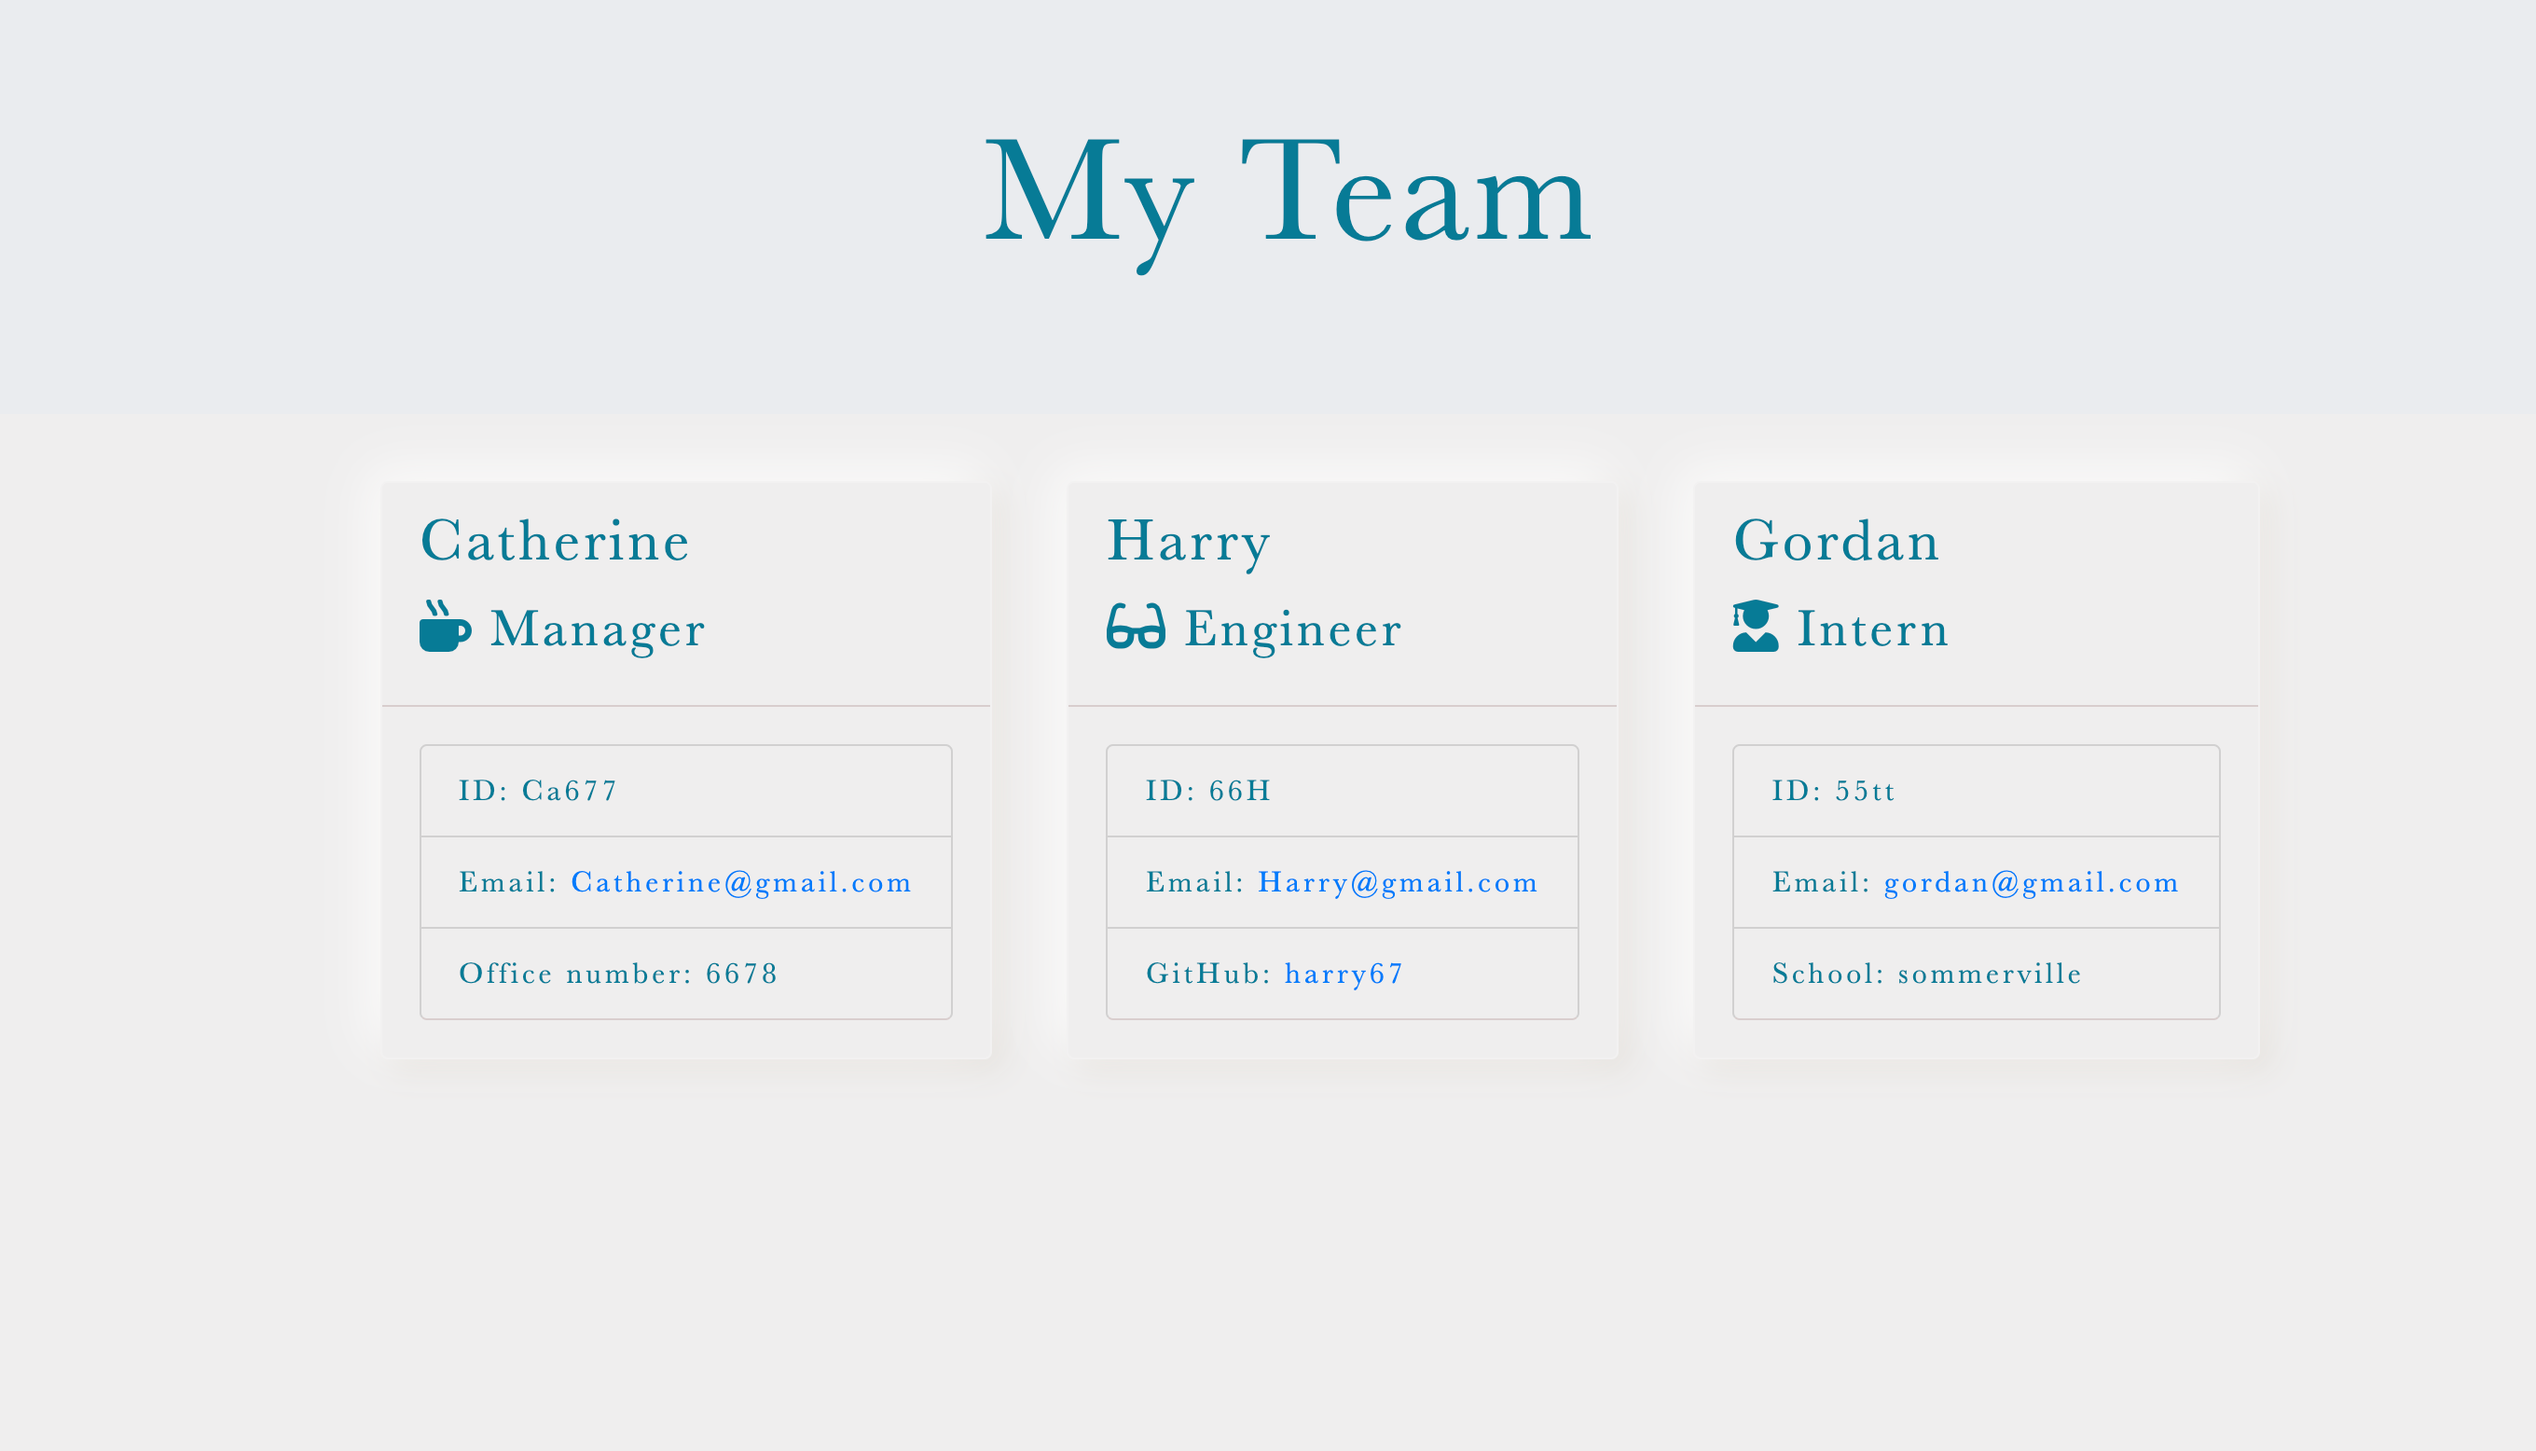
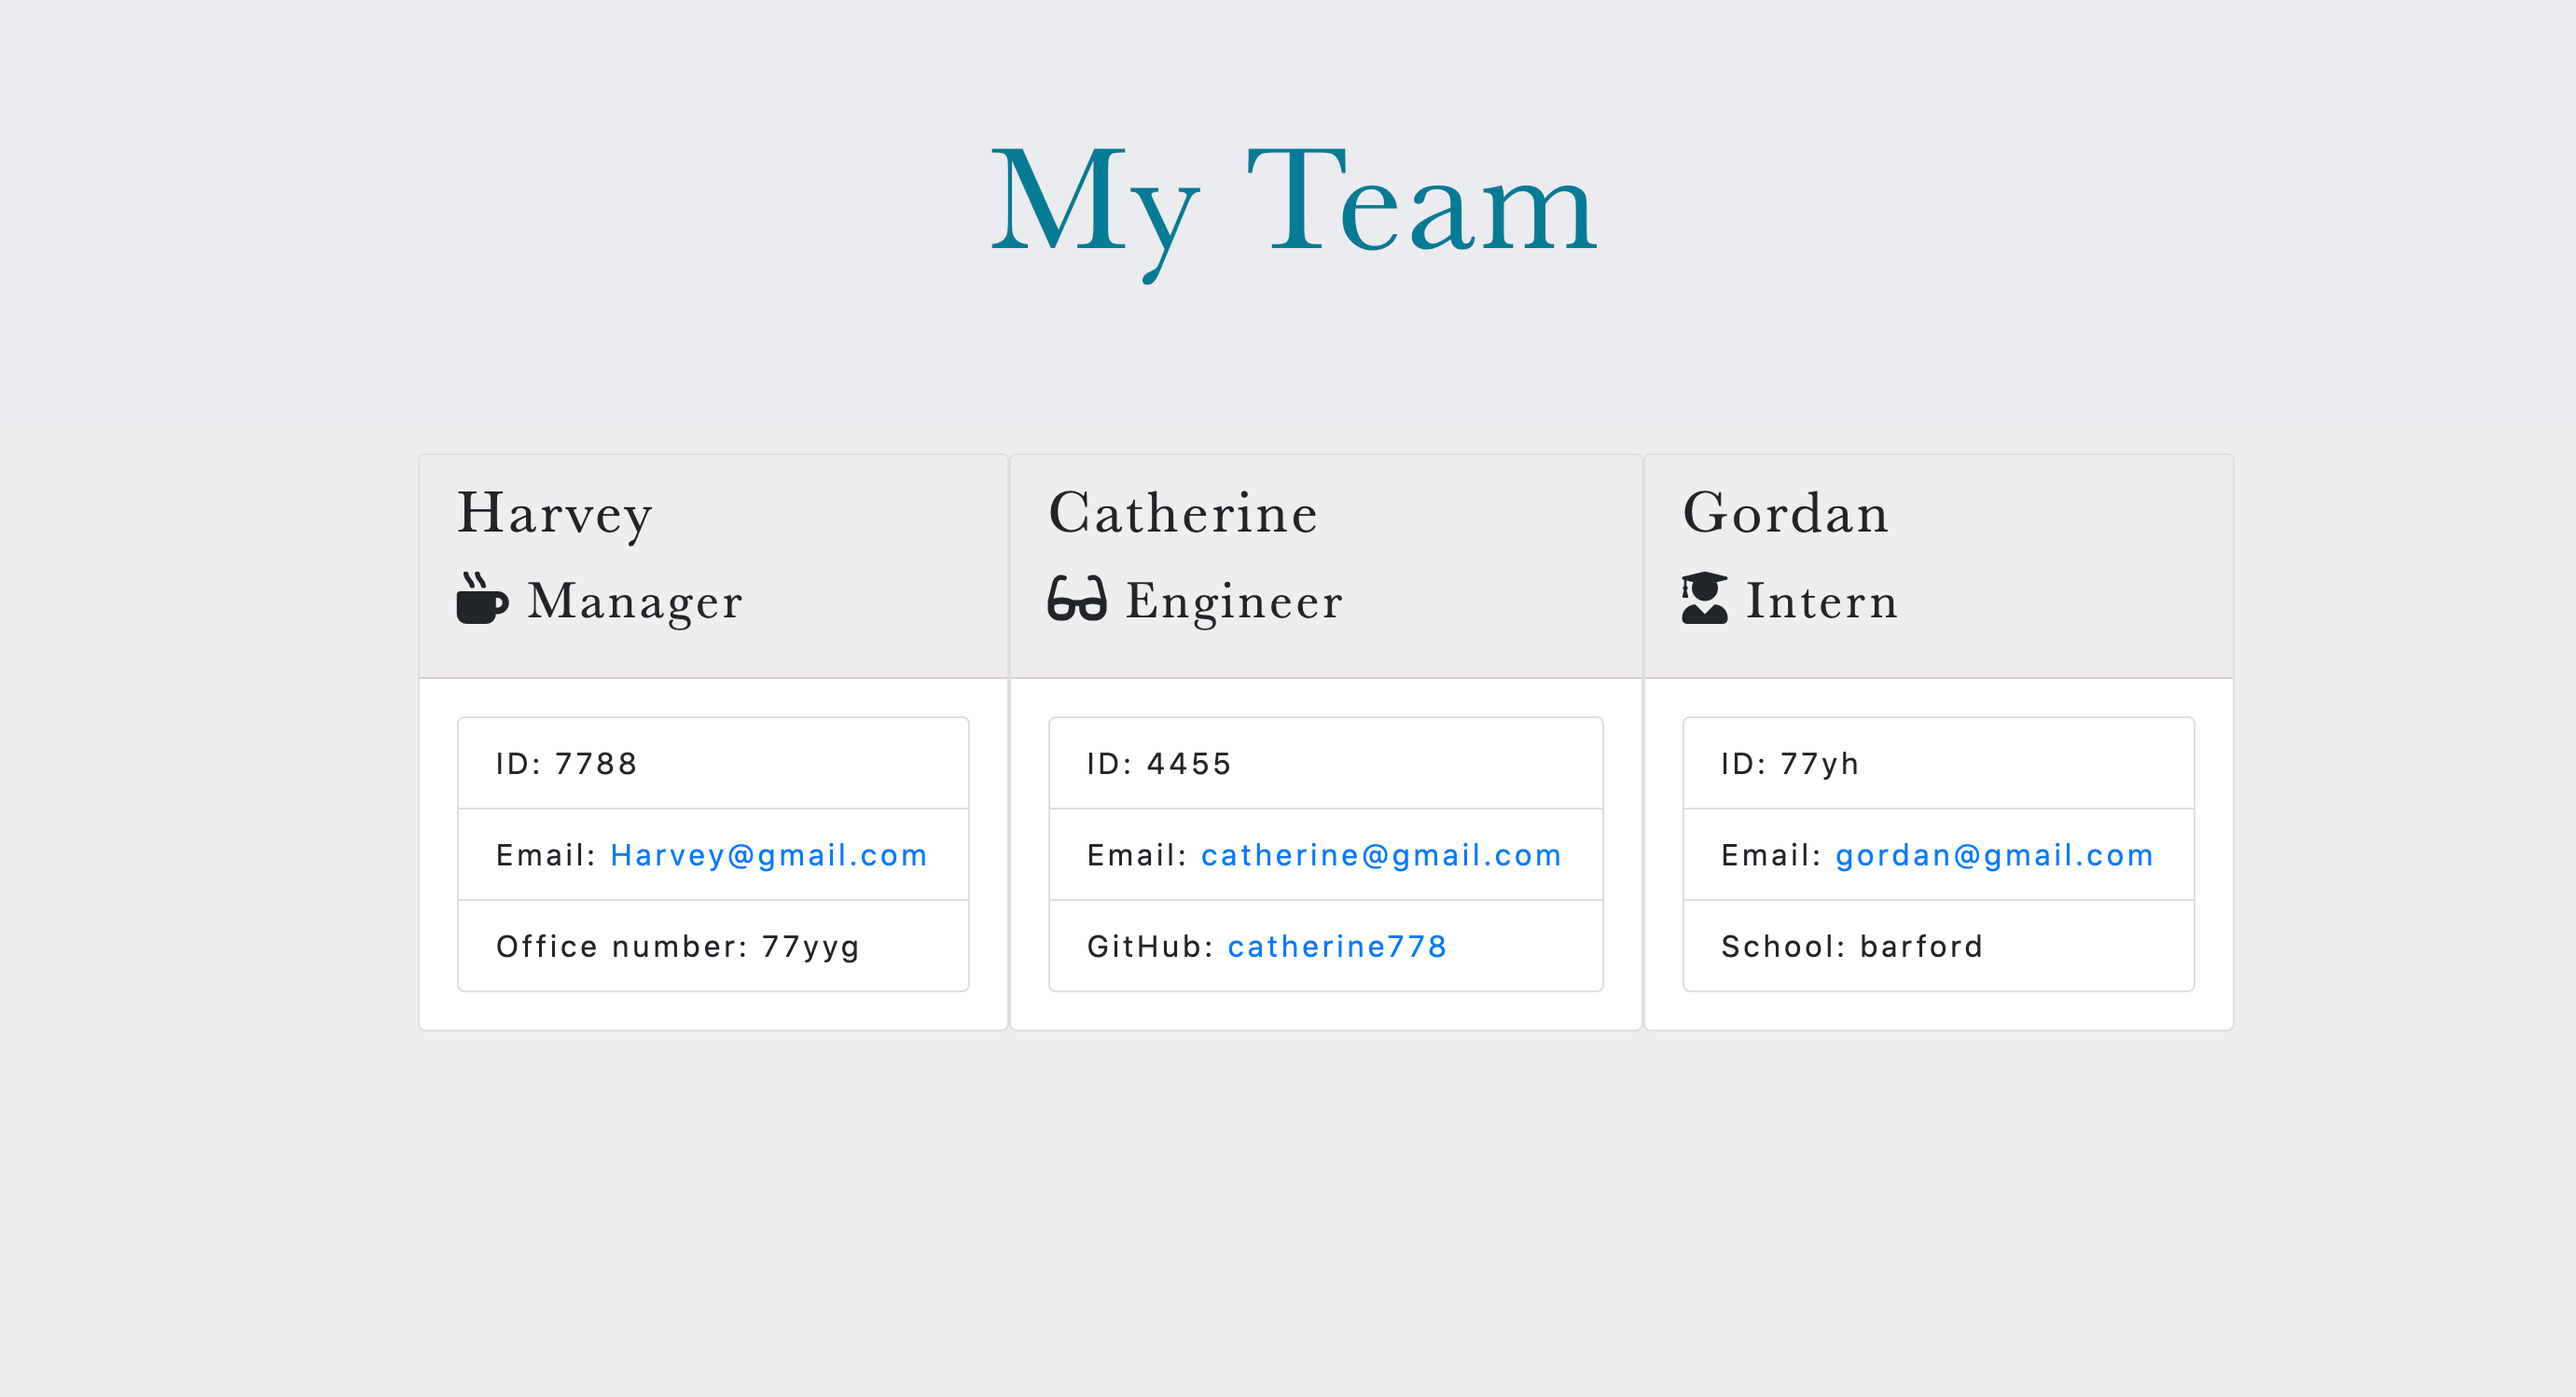
updated readme

diff --git a/output/team.html b/output/team.html
@@ -40,27 +40,14 @@
     padding: 7%;
     background-color: rgb(25, 155, 206);
     color: #EFEEEE;
-    box-shadow: -6px -6px 26px 0 rgba(255, 255, 255, 0.83),6px 6px 16px 0 rgba(217, 210, 200, 0.51);
-    border: 1px solid rgba(255, 255, 255, 0.20);
     margin-bottom: 30px;
     clip-path: polygon(50% 0%, 100% 0, 100% 75%, 50% 100%, 0% 75%, 0 0);
-  
-  }
-  
-  .card{
-    margin-top: 20px;
-    margin-right: 20px;
-    margin-left: 20px;
-    color: rgb(11, 123, 151);
-    background-color: #EFEEEE;
-    font-family: 'Baskerville';
-    
   }
   
   .card-header{
     font-family: 'Baskerville';
     background-color: #EFEEEE;
-      border-bottom: 1px solid rgba(206, 189, 189, 0.685);
+    border-bottom: 1px solid rgba(206, 189, 189, 0.685);
   }
   .footer{
     width: 100%;
@@ -79,27 +66,27 @@
             <div class="team-area col-12 d-flex justify-content-center ml-3">
                 <div class="card employee-card">
     <div class="card-header">
-        <h2 class="card-title">Catherine</h2>
+        <h2 class="card-title">Harvey</h2>
         <h3 class="card-title"><i class="fas fa-mug-hot mr-2"></i>Manager</h3>
     </div>
     <div class="card-body">
         <ul class="list-group">
-            <li class="list-group-item">ID: Ca677</li>
-            <li class="list-group-item">Email: <a href="mailto:Catherine@gmail.com">Catherine@gmail.com</a></li>
-            <li class="list-group-item">Office number: 6678</li>
+            <li class="list-group-item">ID: 7788</li>
+            <li class="list-group-item">Email: <a href="mailto:Harvey@gmail.com">Harvey@gmail.com</a></li>
+            <li class="list-group-item">Office number: 77yyg</li>
         </ul>
     </div>
 </div>
 <div class="card employee-card">
     <div class="card-header">
-        <h2 class="card-title">Harry</h2>
+        <h2 class="card-title">Catherine</h2>
         <h3 class="card-title"><i class="fas fa-glasses mr-2"></i>Engineer</h3>
     </div>
     <div class="card-body">
         <ul class="list-group">
-            <li class="list-group-item">ID: 66H</li>
-            <li class="list-group-item">Email: <a href="mailto:Harry@gmail.com">Harry@gmail.com</a></li>
-            <li class="list-group-item">GitHub: <a href="https://github.com/harry67" target="_blank" rel="noopener noreferrer">harry67</a></li>
+            <li class="list-group-item">ID: 4455</li>
+            <li class="list-group-item">Email: <a href="mailto:catherine@gmail.com">catherine@gmail.com</a></li>
+            <li class="list-group-item">GitHub: <a href="https://github.com/catherine778" target="_blank" rel="noopener noreferrer">catherine778</a></li>
         </ul>
     </div>
 </div>
@@ -110,9 +97,9 @@
     </div>
     <div class="card-body">
         <ul class="list-group">
-            <li class="list-group-item">ID: 55tt</li>
+            <li class="list-group-item">ID: 77yh</li>
             <li class="list-group-item">Email: <a href="mailto:gordan@gmail.com">gordan@gmail.com</a></li>
-            <li class="list-group-item">School: sommerville</li>
+            <li class="list-group-item">School: barford</li>
         </ul>
     </div>
 </div>

diff --git a/templates/main.html b/templates/main.html
@@ -40,20 +40,14 @@
     padding: 7%;
     background-color: rgb(25, 155, 206);
     color: #EFEEEE;
-    box-shadow: -6px -6px 26px 0 rgba(255, 255, 255, 0.83),6px 6px 16px 0 rgba(217, 210, 200, 0.51);
-    border: 1px solid rgba(255, 255, 255, 0.20);
     margin-bottom: 30px;
     clip-path: polygon(50% 0%, 100% 0, 100% 75%, 50% 100%, 0% 75%, 0 0);
-  
   }
-  
-  
- 
   
   .card-header{
     font-family: 'Baskerville';
     background-color: #EFEEEE;
-      border-bottom: 1px solid rgba(206, 189, 189, 0.685);
+    border-bottom: 1px solid rgba(206, 189, 189, 0.685);
   }
   .footer{
     width: 100%;
